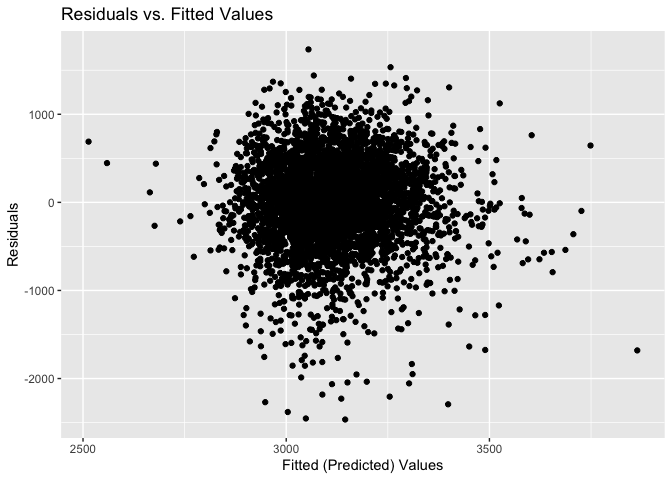
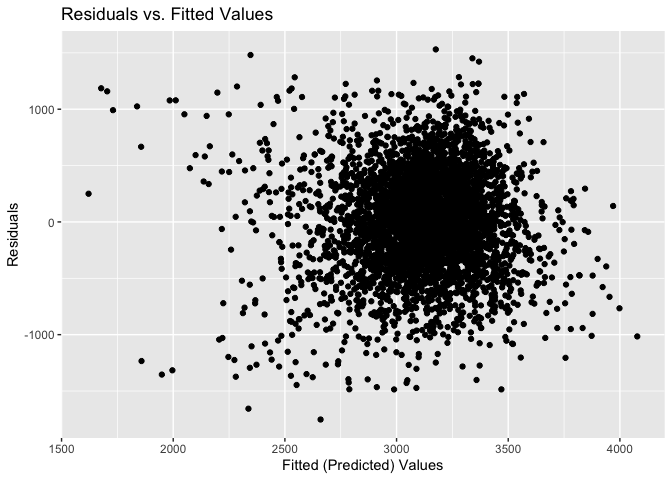
changed my model, ran an RMSE

diff --git a/p8105_hw6_mk4995.md b/p8105_hw6_mk4995.md
@@ -351,31 +351,24 @@ any(is.na(bwt))
 
 To create my regression model for birthweight, I searched on Google
 Scholar for articles related to “factors affecting birthweight”. One
-article on Maternal Factors for Low Birth Weight Babies (found here:
-<https://pmc.ncbi.nlm.nih.gov/articles/PMC4921448/>) hypothesized that
-birthweight is affected by the following factors of interest that are
-also included in this dataset:
+article titled “Factors influencing the birth weight in normal
+pregnancy” (found here:
+<https://www.sciencedirect.com/science/article/abs/pii/0002937865902486>)
+hypothesized that birthweight is affected by the following factors of
+interest that are also included in this dataset:
 
-- Maternal age at delivery
+- Sex and gestational age of the infant
 
-- Pre-pregnancy BMI
+- Weight, height, body build of the mother, and of the maternal weight
+  gain during pregnancy
 
-- Pre-pregnancy weight
-
-- Number of live births prior to this pregnancy
-
-- Previous number of low birth weight babies
-
-- Number of prior small for gestational age babies
-
-The article also noted that bad obstetric history, pre eclampsia, fetal
-distress, and mode of deliveries were studied, but we will focus on the
-ones listed above as they are available in our dataset.
+I will create a model only using the simple effects of the factors
+above.
 
 ``` r
 bwt_model = 
   bwt |> 
-  lm(bwt ~ momage + ppbmi + ppwt + parity + pnumlbw + pnumsga, data = _)
+  lm(bwt ~ babysex + gaweeks + wtgain + mheight , data = _)
 ```
 
 Plot model residuals against fitted values.
@@ -394,3 +387,64 @@ bwt |>
 ```
 
 ![](p8105_hw6_mk4995_files/figure-gfm/unnamed-chunk-17-1.png)<!-- -->
+
+Compare my model to two other models.
+
+- `model1`: One using length at birth and gestational age as predictors
+  (main effects only)
+
+- `model2`: One using head circumference, length, sex, and all
+  interactions (including the three-way interaction) between these
+
+``` r
+model1 = 
+  bwt |> 
+  lm(bwt ~ blength + gaweeks, data = _)
+
+model2 = 
+  bwt |> 
+  lm(bwt ~ bhead + blength + babysex + bhead*blength + bhead*babysex + blength*babysex + bhead*blength*babysex, data = _)
+```
+
+Make this comparison in terms of the cross-validated prediction error.
+
+``` r
+cv_df = 
+  crossv_mc(bwt, 100) %>% 
+  mutate(
+    train = map(train, as_tibble),
+    test = map(test, as_tibble)
+  )
+
+cv_res_df =
+  cv_df |> 
+  mutate(
+    model1 = map(train, \(x) lm(bwt ~ babysex + gaweeks + wtgain + mheight , data = x)),
+    model2 = map(train, \(x) lm(bwt ~ blength + gaweeks, data = x)),
+    model3 = map(train, \(x) lm(bwt ~ bhead + blength + babysex + bhead*blength + bhead*babysex + blength*babysex + bhead*blength*babysex, data = x))
+  ) |> 
+  mutate(
+    rmse_model1 = map2_dbl(model1, test, rmse),
+    rmse_model2 = map2_dbl(model2, test, rmse),
+    rmse_model3 = map2_dbl(model3, test, rmse)
+  )
+```
+
+``` r
+cv_res_df |> 
+  select(starts_with("rmse")) |> 
+  pivot_longer(
+    everything(),
+    names_to = "model", 
+    values_to = "rmse",
+    names_prefix = "rmse_"
+  ) |> 
+  ggplot(aes(x = model, y = rmse, fill = model)) + 
+  geom_violin()
+```
+
+![](p8105_hw6_mk4995_files/figure-gfm/unnamed-chunk-20-1.png)<!-- -->
+
+My model had the highest RMSE distribution, whereas model 3 (which
+included the interactions) has the lowest distribution. Thus, we can
+conclude that the last model has the best predictive accuracy.
